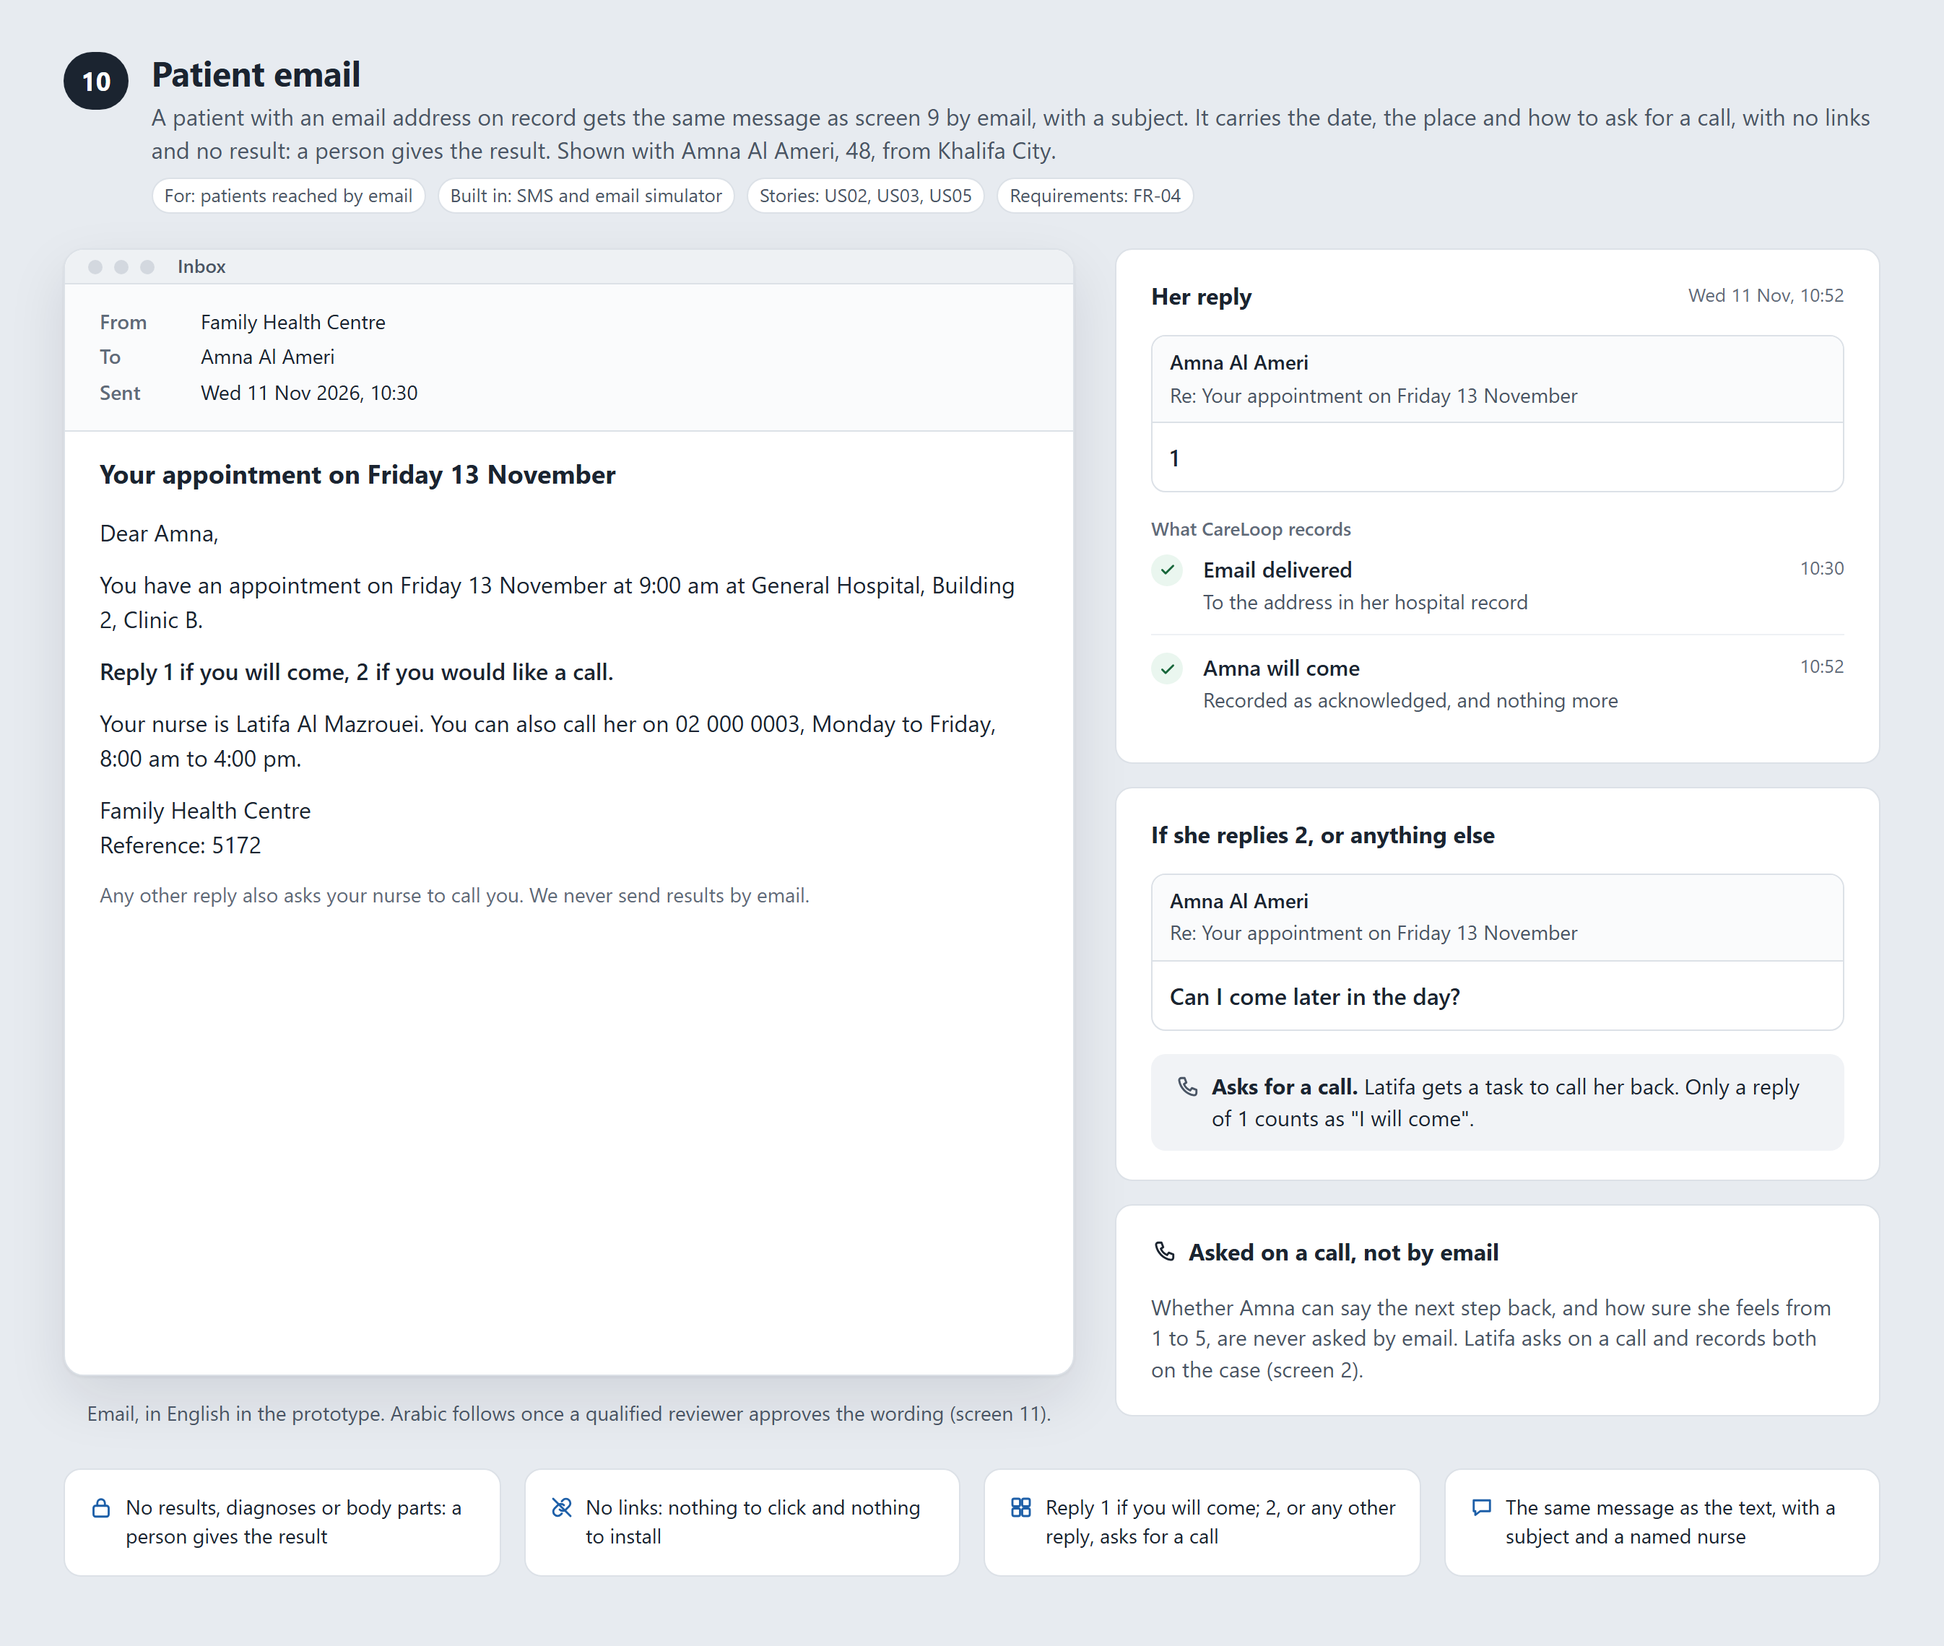
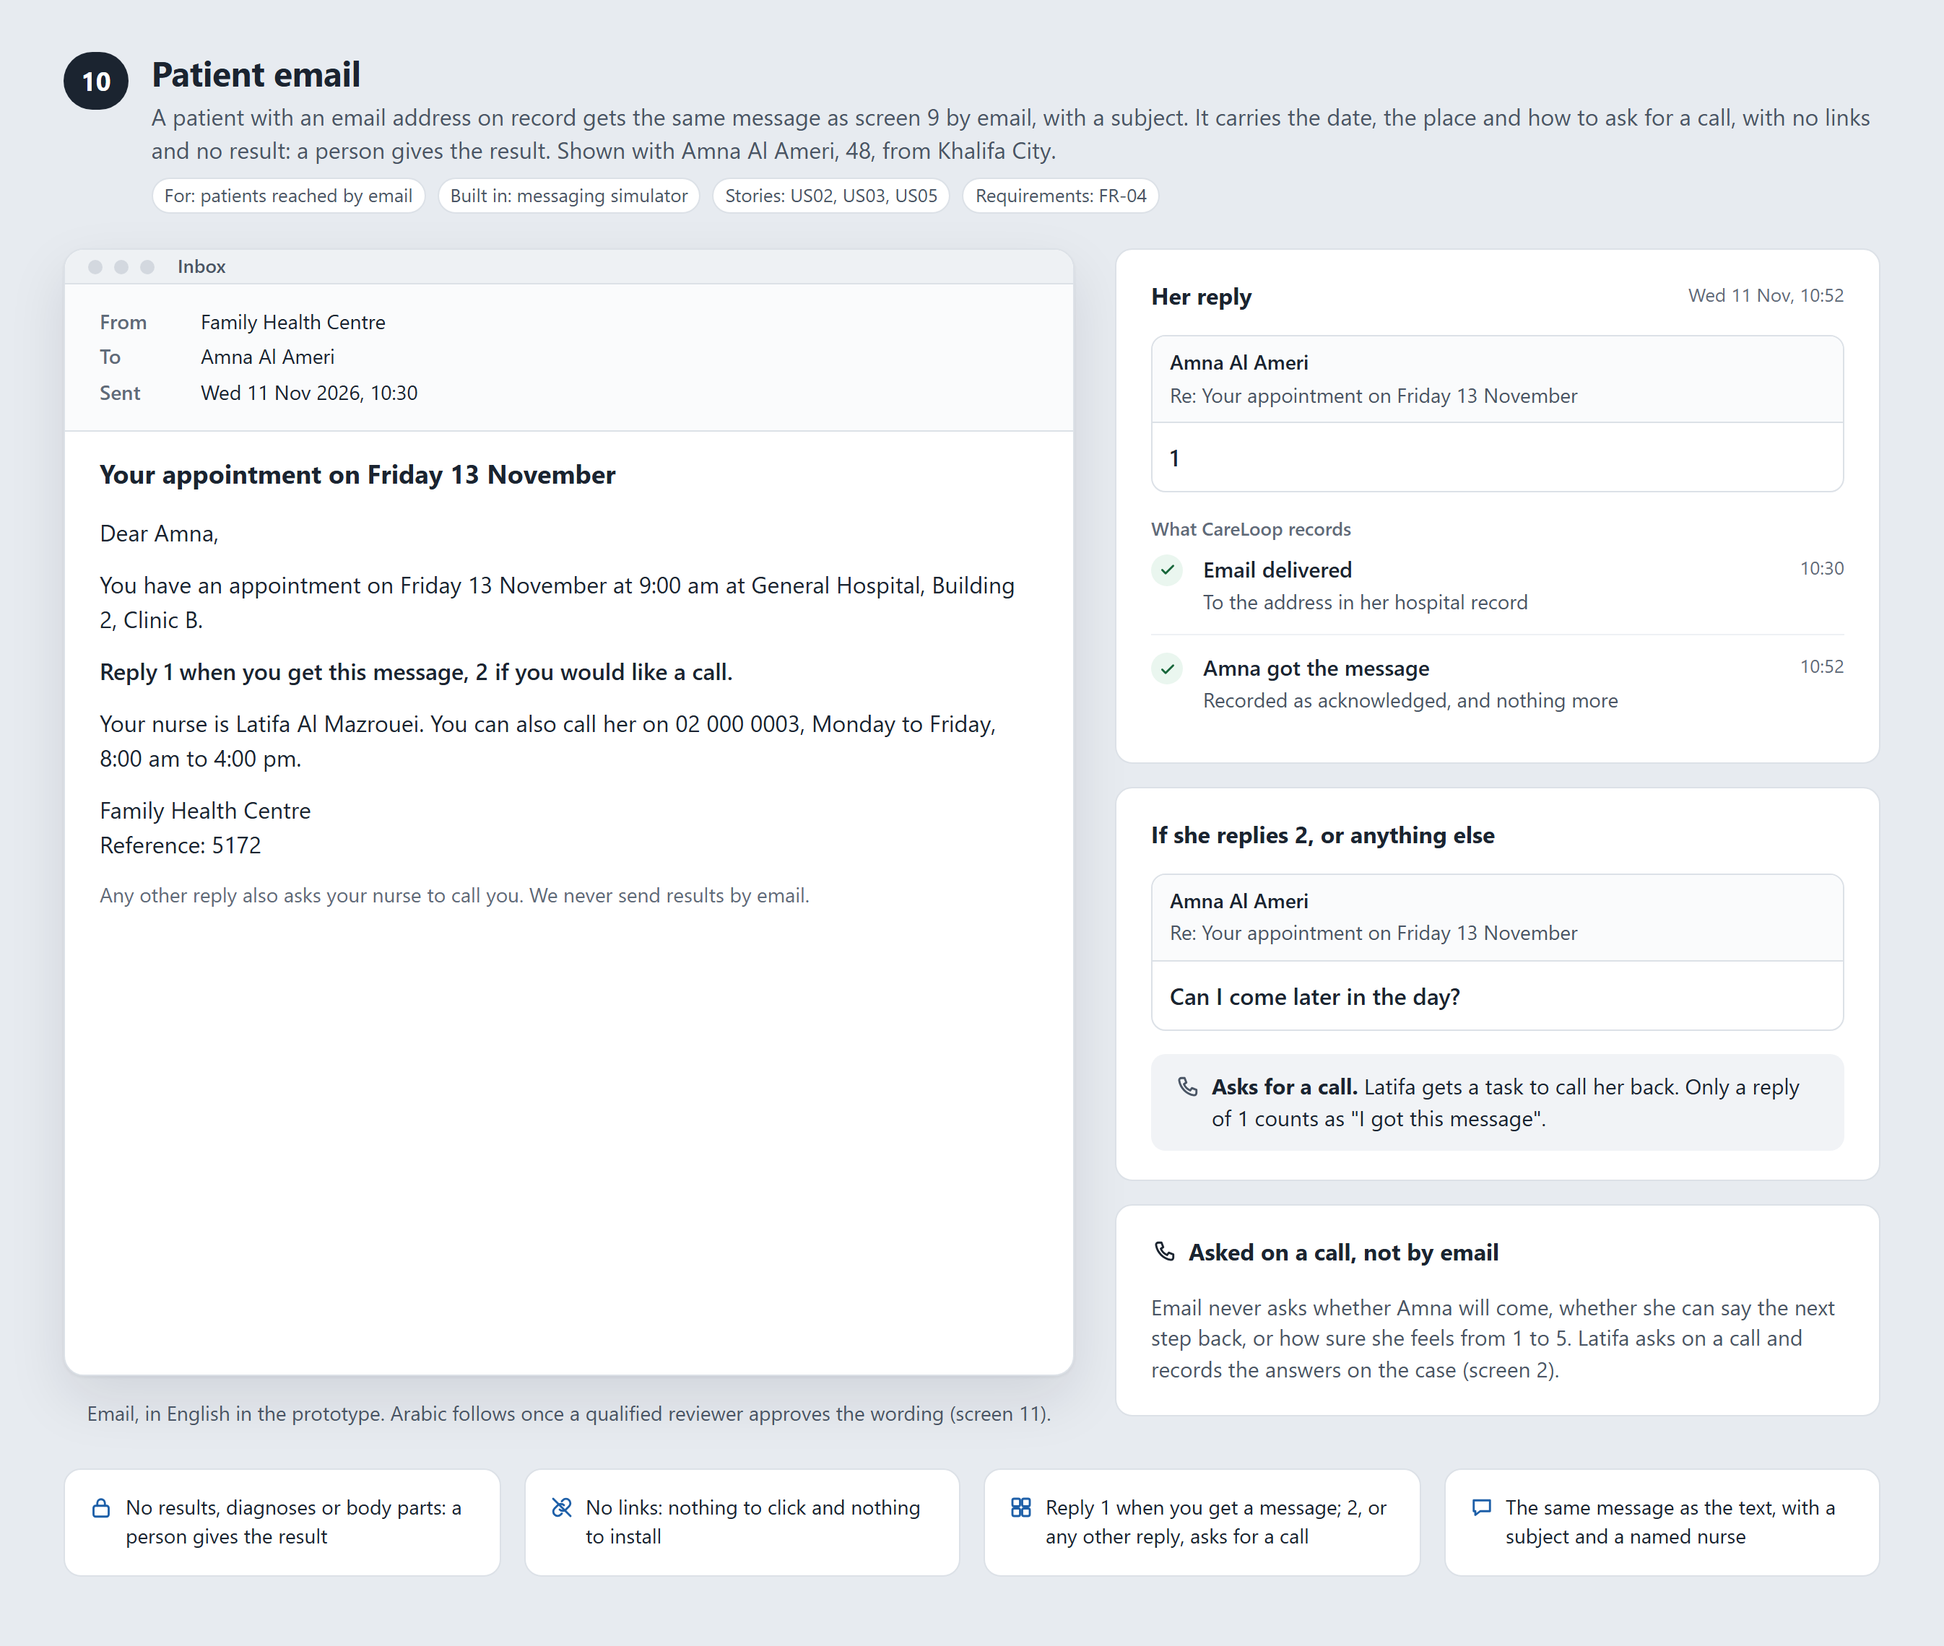
Say reply 1 means "I got this message" (P22, decision 31)
Screens 9, 10, 11, 12, 14, 22 and the flow no longer read a reply of 1 as "I will come".
Texts and emails say "Reply 1 when you get this message, 2 if you would like a call";
a nurse still records "will come" after a call. The text on screen 9 is the appointment
message (decision 33). The Arabic text and email use the same codes, and the reminder
is now 130 characters.

Screens 9 to 12 and the README call the patient-channel simulator the messaging
simulator, as #45 does; the README keeps main's path to it until #45 merges.
Marks P22 done in the gap analysis.

diff --git a/docs/ui-design/README.md b/docs/ui-design/README.md
@@ -2,8 +2,8 @@
 
 One flow, 22 screens and a guide to who sees what, for CareLoop, ready to build. Together they cover user stories US01 to US16 and every point of Challenge 05, Closing the Screening-to-Care Loop. Every person, number and facility shown is invented.
 
-- Screens 1 to 13 are grouped by the component that builds them: 1 to 4 in the CareLoop web app, 5 to 8 in the HIS simulator, 9 to 12 in the SMS and email simulator, and 13 across all of them.
-- CareLoop reaches patients, caregivers and staff by text message and email only; there is no patient app or portal (decisions 21 to 31 in the [gap analysis](../ui-design-gap-analysis.md), C22). Screen 10 is the patient's email, and a nurse navigator records what a patient says on a call on screen 2.
+- Screens 1 to 13 are grouped by the component that builds them: 1 to 4 in the CareLoop web app, 5 to 8 in the HIS simulator, 9 to 12 in the messaging simulator, and 13 across all of them.
+- CareLoop reaches patients, caregivers and staff by text message and email only; there is no patient app or portal (decisions 21 to 31 in the [gap analysis](../ui-design-gap-analysis.md), C22). Screen 10 is the patient's email, and a nurse navigator records what a patient says on a call on screen 2. A reply of 1 means "I got this message" (decision 31).
 - Screen 14 is the guide to who sees what.
 - Screens 15 to 23 follow one patient, Hessa Al Dhaheri, from her first visit to the all clear. Screens 22 and 23 come after the screening case closes: they are the target design, not part of the hackathon build.
 - For the hackathon, only CareLoop's own screens and the patient's phone are shown. Steps in the hospital system are simulated ([What the judges see](#what-the-judges-see)).
@@ -19,7 +19,7 @@ The design follows the seven decisions in the [UI design gap analysis](../ui-des
 | # | Decision | What changed in the design |
 |---|---|---|
 | 1 | Five stages in code; the ten on screen are display labels | The flow table maps each label to its stage and track status. The flow has a row "In code". |
-| 2 | The patient does not confirm appointments. "I will come" is an acknowledgement. | Screens 9, 10, 12 and 14 say "she will come": a reply of 1, which sends `NotificationUpdated/Acknowledged` only. Since decision 31, reply 1 means "I got this message"; the screens are to be reworded (P22). |
+| 2 | The patient does not confirm appointments. "I will come" is an acknowledgement. | Since decision 31, a reply of 1 means "I got this message" and sends `NotificationUpdated/Acknowledged` only; screens 9, 10, 12 and 14 say so (P22). Whether she will come is asked on a call, and the nurse records it on screen 2. |
 | 3 | Build the confidence rating | A nurse navigator records it after a call, on screen 2 (decision 30), as `NotificationUpdated/ConfidenceRated` from 1 to 5. Screen 3 reports it. |
 | 4 | The AI handoff summary is approved in the CareLoop web app | New screen 18. Screen 6 shows the approved summary, read-only. |
 | 5 | Add the roles `nurse-navigator`, `receiving-clinician` and `lab` | Who sees what gives each person their role in CareLoop. |
@@ -36,7 +36,7 @@ The team agreed on 13 November to keep the focus on the loop that CareLoop close
 | Hackathon | Screens |
 |---|---|
 | Shown: CareLoop web app | 1 Worklist, 2 Case, 3 Impact, 4 Programmes, 17 Escalation, 18 Handoff summary |
-| Shown: the patient's text messages and email, in the SMS and email simulator | 9 Basic phone, 10 Patient email, 12 Caregiver and email |
+| Shown: the patient's text messages and email, in the messaging simulator | 9 Basic phone, 10 Patient email, 12 Caregiver and email |
 | Simulated: a test scenario sends their events | 5 Consultation, 6 Refer, 7 Accept or decline, 8 Close, 15 First visit, 16 Screening result, 19 Assessment, 20 Lab result, 21 Diagnosis and plan |
 | Later | 11 Arabic (deferred), 22 Treatment and 23 All clear (target design) |
 | Reference for everyone | Flow, 13 Empty and error states, 14 Who sees what |
@@ -129,7 +129,7 @@ Where each screen is built:
 
 - CareLoop web app: `src/web`
 - HIS simulator: `src/simulators/his/HisSimulator/ClientApp`
-- SMS and email simulator: `src/simulators/patient-channel/PatientChannelSimulator/ClientApp`
+- Messaging simulator: `src/simulators/patient-channel/PatientChannelSimulator/ClientApp`
 
 | # | Screen | Used by | Built in | Stories | Requirements | Hackathon |
 |---|---|---|---|---|---|---|
@@ -141,10 +141,10 @@ Where each screen is built:
 | 6 | [Refer to a unit](#6-refer-to-a-unit) | Referring clinicians | HIS simulator | US06, US07 | FR-05, FR-11 | Simulated |
 | 7 | [Accept or decline a referral](#7-accept-or-decline-a-referral) | Receiving clinicians, labs and appointment teams | HIS simulator | US08, US09, US10 | FR-05, FR-06 | Simulated |
 | 8 | [Close the case](#8-close-the-case) | Authorised clinicians | HIS simulator | US11, US12, US14, US15 | FR-08 | Simulated |
-| 9 | [Basic phone, no internet](#9-basic-phone-no-internet) | Patients without a smartphone or internet | SMS and email simulator | US02, US03 | FR-04 | Shown |
-| 10 | [Patient email](#10-patient-email) | Patients reached by email | SMS and email simulator | US02, US03, US05 | FR-04 | Shown |
-| 11 | [Arabic, right to left](#11-arabic-right-to-left) | Arabic-speaking patients and families | SMS and email simulator | US02, US03 | FR-04 | Deferred |
-| 12 | [Caregiver and email](#12-caregiver-and-email) | Family members a patient has named | SMS and email simulator | US04, US10 | FR-04, FR-10 | Shown |
+| 9 | [Basic phone, no internet](#9-basic-phone-no-internet) | Patients without a smartphone or internet | Messaging simulator | US02, US03 | FR-04 | Shown |
+| 10 | [Patient email](#10-patient-email) | Patients reached by email | Messaging simulator | US02, US03, US05 | FR-04 | Shown |
+| 11 | [Arabic, right to left](#11-arabic-right-to-left) | Arabic-speaking patients and families | Messaging simulator | US02, US03 | FR-04 | Deferred |
+| 12 | [Caregiver and email](#12-caregiver-and-email) | Family members a patient has named | Messaging simulator | US04, US10 | FR-04, FR-10 | Shown |
 | 13 | [Empty and error states](#13-empty-and-error-states) | Everyone building or testing CareLoop | All components | US03, US13, US14, US15 | FR-01, FR-04, FR-07, FR-08, FR-11 | Reference |
 
 Hessa's journey:
@@ -260,6 +260,7 @@ Hessa's journey:
 ![Basic phone, no internet](09-basic-phone.png)
 
 - Delivery sends `NotificationUpdated/Delivered`, and failure `/Failed`.
+- The text on screen is the appointment message, sent when the appointment is booked (decision 33). It asks her to reply 1 when she gets it, not whether she will come (decision 31).
 - Huda's call ends with two questions: can Hessa say the next step back, and how sure does she feel, from 1 to 5. After the call, Huda records on screen 2 that she said it back (`/Understood`) and how sure she feels (`/ConfidenceRated`), and that she will come (`/Acknowledged`) when she says so on a call.
 - Replying 1 sends `/Acknowledged` (she got the message, decision 31), and 2 sends `/CallRequested`. Any other reply also sends `/CallRequested`: someone should call her (decision 29). Replies need two-way texts: C7 and C22 in the simulator, and an agreement with the text provider in production.
 - A person gives results. Texts carry only dates and places, with no links, and come from a number the patient can reply to.
@@ -271,10 +272,10 @@ Hessa's journey:
 ![Patient email](10-patient-email.png)
 
 - There is no patient app or portal (decision 21). A patient with an email address on record gets the same message as screen 9 by email: a subject, the dates and places, and how to reply. No links, and no result: a person gives it.
-- Shown with Amna Al Ameri in a plain mail window. The email from the Family Health Centre has the subject "Your appointment on Friday 13 November", the date, time and place, "Reply 1 if you will come, 2 if you would like a call", and her named nurse with a number to call. There are no buttons, links, questions or ratings.
-- She replies by email the same way as by text: 1 sends `NotificationUpdated/Acknowledged` (decision 2), and 2 or any other reply sends `/CallRequested` (decision 29). The screen shows both: her reply of 1, and a reply such as "Can I come later in the day?", which gives her nurse a call-back task.
-- Saying the next step back (`/Understood`) and the confidence rating (`/ConfidenceRated`, 1 to 5) are not asked by email. The nurse records them on screen 2 after a call (decision 30). Acknowledgement and understanding are still recorded separately.
-- In the prototype, the email is shown in the SMS and email simulator, not sent, and it is in English (screen 11).
+- Shown with Amna Al Ameri in a plain mail window. The email from the Family Health Centre has the subject "Your appointment on Friday 13 November", the date, time and place, "Reply 1 when you get this message, 2 if you would like a call", and her named nurse with a number to call. There are no buttons, links, questions or ratings.
+- She replies by email the same way as by text: 1 sends `NotificationUpdated/Acknowledged` (she got the message, decision 31), and 2 or any other reply sends `/CallRequested` (decision 29). The screen shows both: her reply of 1, and a reply such as "Can I come later in the day?", which gives her nurse a call-back task.
+- Whether she will come, saying the next step back (`/Understood`) and the confidence rating (`/ConfidenceRated`, 1 to 5) are not asked by email. The nurse records them on screen 2 after a call (decision 30). Acknowledgement and understanding are still recorded separately.
+- In the prototype, the email is shown in the messaging simulator, not sent, and it is in English (screen 11).
 
 ### 11. Arabic, right to left
 
@@ -283,7 +284,7 @@ Hessa's journey:
 - Deferred: this is the target design. The prototype runs in English, and every template and screen is keyed by language from the start, as `AGENTS.md` requires, so Arabic needs no new code.
 - Arabic is added once a qualified bilingual reviewer approves the wording ([AI specification](../ai-design/ai-spec.md), section 2.3). The wording shown is a draft.
 - The same messages and events as 9 and 10: the screen shows the email from screen 10 and the text from screen 9 in Arabic. Set `dir="rtl"` and use logical CSS properties (start and end, not left and right).
-- An Arabic text holds 70 characters, or 67 per part when split, so Arabic templates are shorter. The reminder shown is 128 characters: two messages.
+- An Arabic text holds 70 characters, or 67 per part when split, so Arabic templates are shorter. The reminder shown is 130 characters: two messages.
 
 ### 12. Caregiver and email
 
@@ -294,7 +295,7 @@ Hessa's journey:
 - The email to Saeed carries the day, time and place, a number for help with transport, and why he gets it. Nothing in it is about her health.
 - Giving consent: the patient signs a form with her doctor, who records it in the hospital system (screen 15). CareLoop receives `ConsentRecorded/Granted` when her case opens; in the hackathon, the test scenario sends it.
 - Withdrawing consent: the patient tells anyone in her care team, who records it in the hospital system. That sends `ConsentRecorded/Withdrawn`, and the emails stop at once.
-- In the prototype, the email is shown in the SMS and email simulator, not sent. CareLoop records each email as a notification attempt.
+- In the prototype, the email is shown in the messaging simulator, not sent. CareLoop records each email as a notification attempt.
 
 ### 13. Empty and error states
 
@@ -451,7 +452,7 @@ Type is Segoe UI, falling back to the system font. All spacing is a multiple of 
 - Every person, number, facility and result is synthetic. No real patient data, systems or credentials are used.
 - The hospital system and the text message and email services are simulated. No live link to Malaffi, a hospital system, SMS or email is claimed.
 - Steps in the hospital system are simulated by a test scenario, as agreed on 13 November. Only CareLoop's screens and the patient's phone are shown.
-- Text messages and emails, to patients, family members and staff, are shown in the SMS and email simulator, not sent. Automated calls are future work.
+- Text messages and emails, to patients, family members and staff, are shown in the messaging simulator, not sent. Automated calls are future work.
 - The prototype runs in English. Arabic is added once a qualified bilingual reviewer approves the wording.
 - Screens 22 and 23 show care after the screening case closes. They are the target design, not part of the hackathon build.
 - Breast screening deadlines come from the DoH 2025 standard. All other deadlines are placeholders until a clinical adviser approves them.

diff --git a/docs/ui-design-gap-analysis.md b/docs/ui-design-gap-analysis.md
@@ -99,7 +99,7 @@ These are changes to [ui-design/README.md](ui-design/README.md) and the screen i
 | P18 | Open questions | Remove the stage, caregiver permission and two-way text questions, now decided. Add: who approves the consent wording, and which role may withdraw consent on a patient's behalf. |
 | P20 | Screen 10 | Replace "Patient view" (an app screen) with "Patient email": the same message as screen 9 by email, with a subject, no links, and the same reply codes (decisions 21, 23). Remove the in-app buttons, the teach-back question and the rating; a nurse records those after a call (decision 24). The image `10-patient-view.png` and `ui-design.html` still show the app. Done in this pull request. |
 | P21 | Screen 2 and roles table | The nurse navigator records what the patient said on a call on the case screen: will come, said the next step back, and a 1 to 5 rating (decision 30). Remove "Amna in her health app" from the roles table and "the health app patients already use" from the criteria table (decision 21). Staff notices arrive by email or text message, not in the hospital system's inbox (decisions 21, 27). Done in this pull request. |
-| P22 | Screens 9, 10, 12 and 14 | Reply 1 now means "I got this message", not "I will come" (decision 31): the follow-up message goes out before any appointment is booked. Reword "Reply 1 to say you will come", "she will come" and the matching captions. A nurse can still record "will come" after a call. |
+| P22 | Screens 9, 10, 12 and 14 | Reply 1 now means "I got this message", not "I will come" (decision 31): the follow-up message goes out before any appointment is booked. Reword "Reply 1 to say you will come", "she will come" and the matching captions. A nurse can still record "will come" after a call. Done in this pull request. |
 
 ## Section 5: Initial Decisions taken
 
